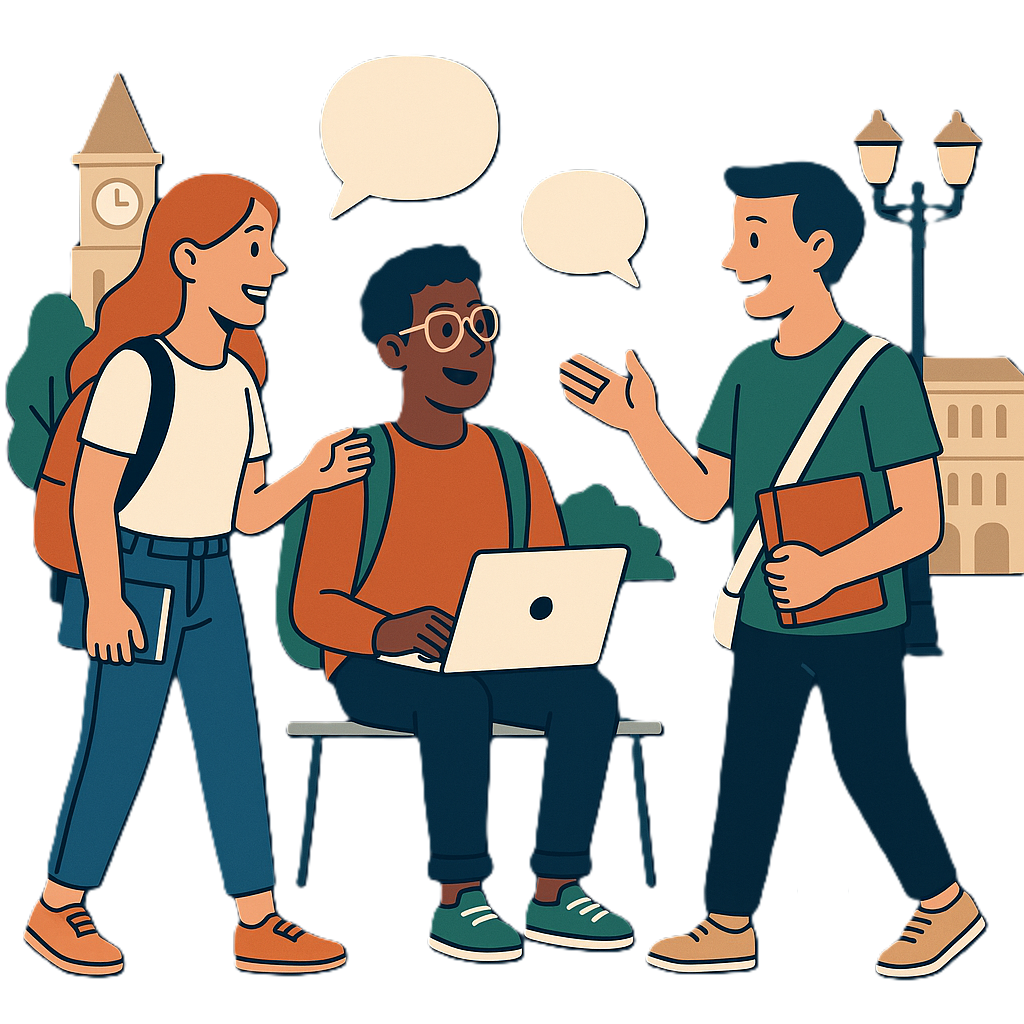
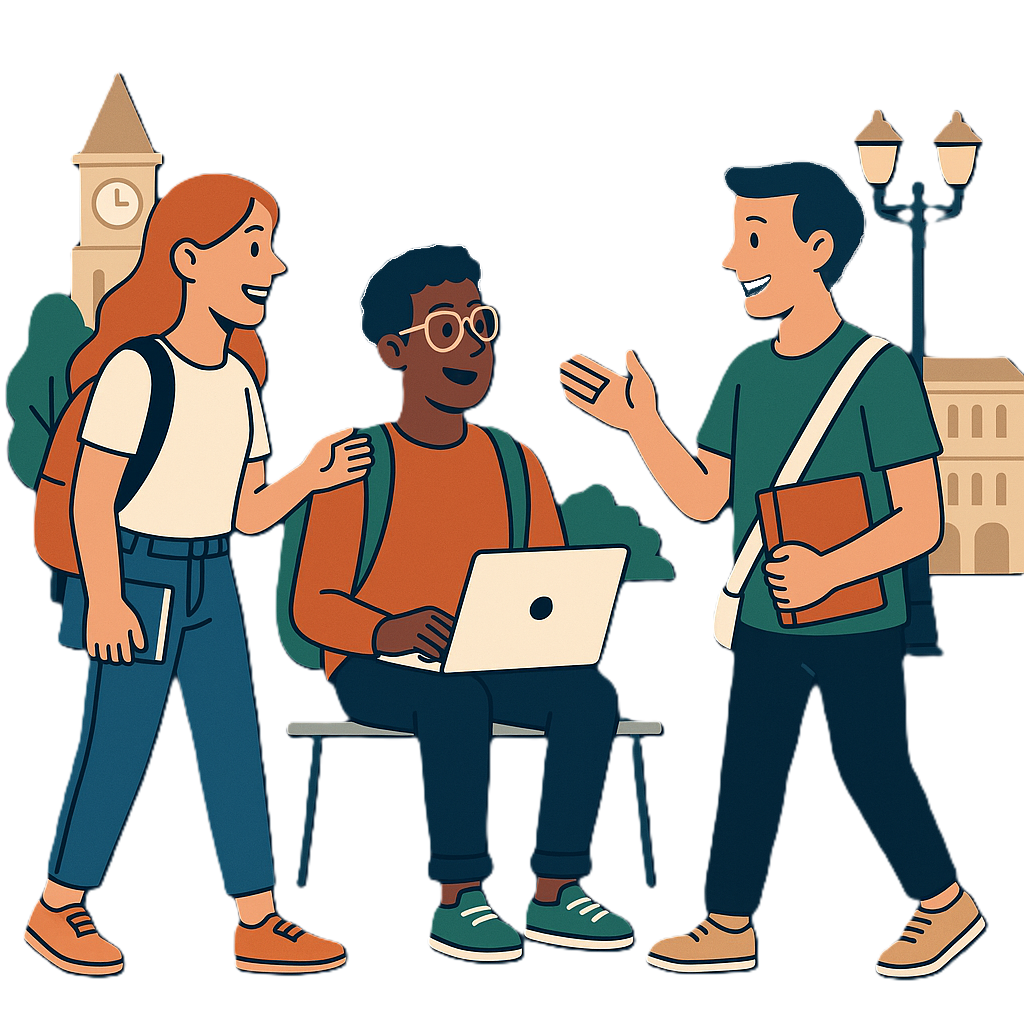
illustration-lp

Changed region(s): [[0.3125, 0.0312, 0.5, 0.2188], [0.5, 0.1562, 0.6562, 0.2812], [0.7188, 0.25, 0.75, 0.3125]]

diff --git a/src/pages/LandingPage.jsx b/src/pages/LandingPage.jsx
@@ -2,7 +2,7 @@ import React, { useEffect, useState } from "react";
 import { Link } from "react-router-dom";
 import PublicHeader from "../components/PublicHeader";
 
-import illustration from "../assets/images/illustration.png";
+import illustration_people from "../assets/images/illustration-people.png";
 import illustration_post from "../assets/images/illustration-post.png";
 import illustration_achiv from "../assets/images/illustration-achiv.png";
 import illustration_connect from "../assets/images/illustration-connect.png";
@@ -76,7 +76,7 @@ const LandingPage = () => {
         </div>
 
         <div className="hero-right">
-          <img src={illustration} alt="hero" />
+          <img src={illustration_people} alt="hero" />
         </div>
       </section>
 

diff --git a/src/pages/LandingPage.css b/src/pages/LandingPage.css
@@ -2,7 +2,7 @@
   display: flex;
   align-items: center;
   justify-content: space-between;
-  padding: 55px 120px;
+  padding: 105px 120px;
   background: #1b263b;
   color: white;
 }
@@ -32,7 +32,7 @@
 }
 
 .hero-right img {
-  max-width: 420px;
+  max-width: 520px;
 }
 
 
